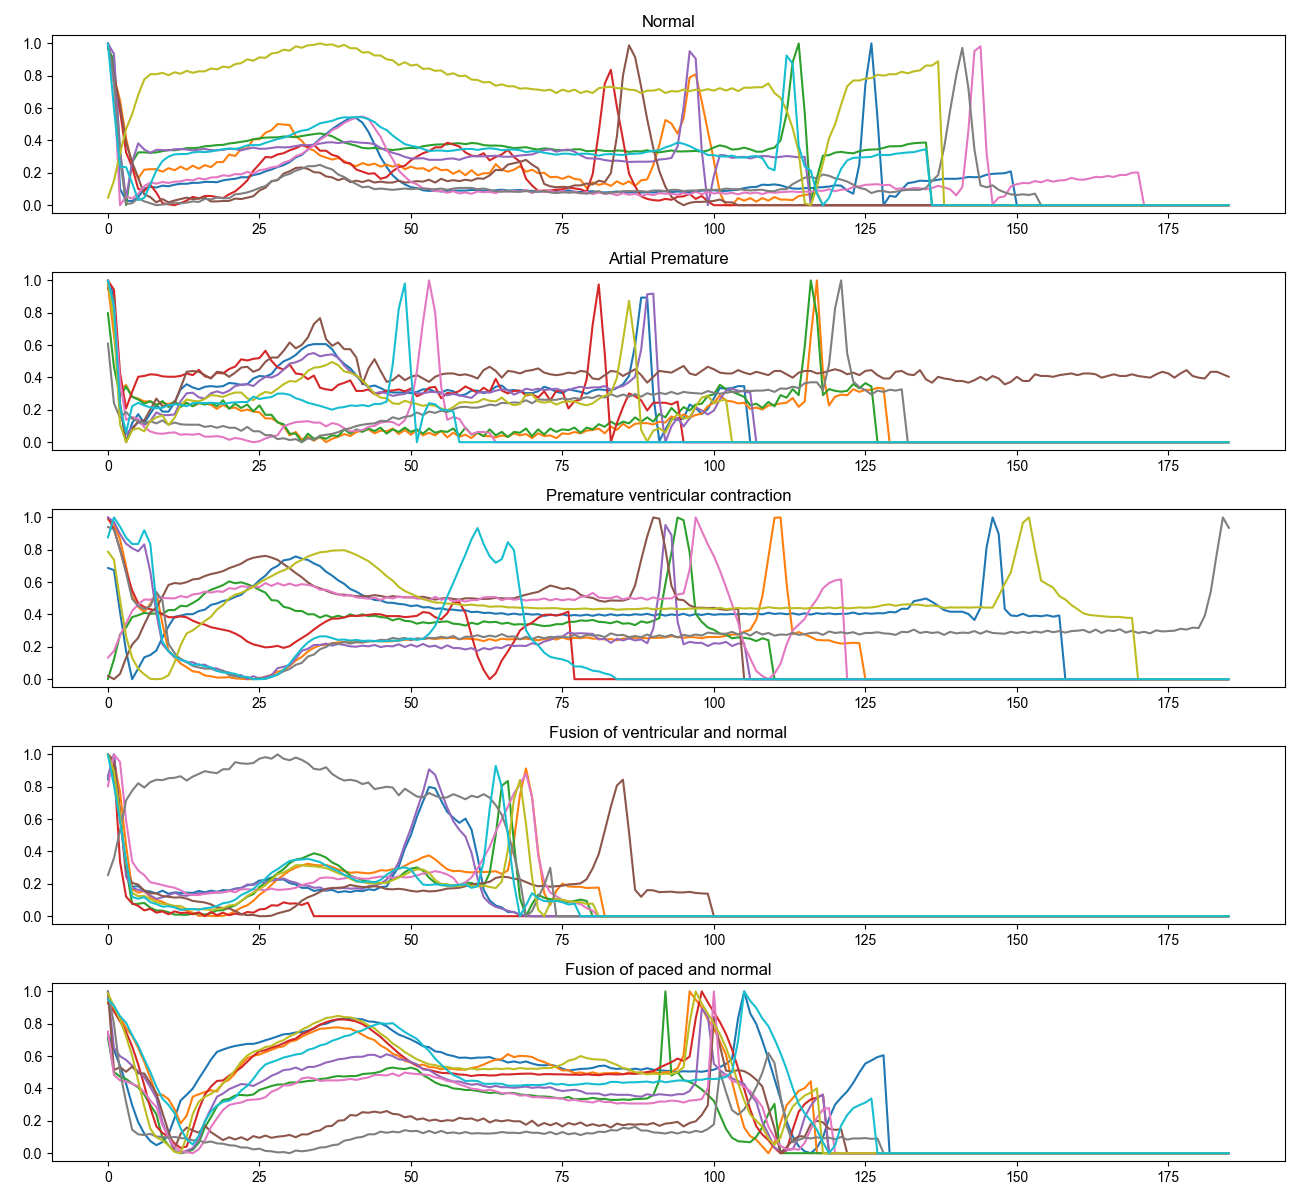
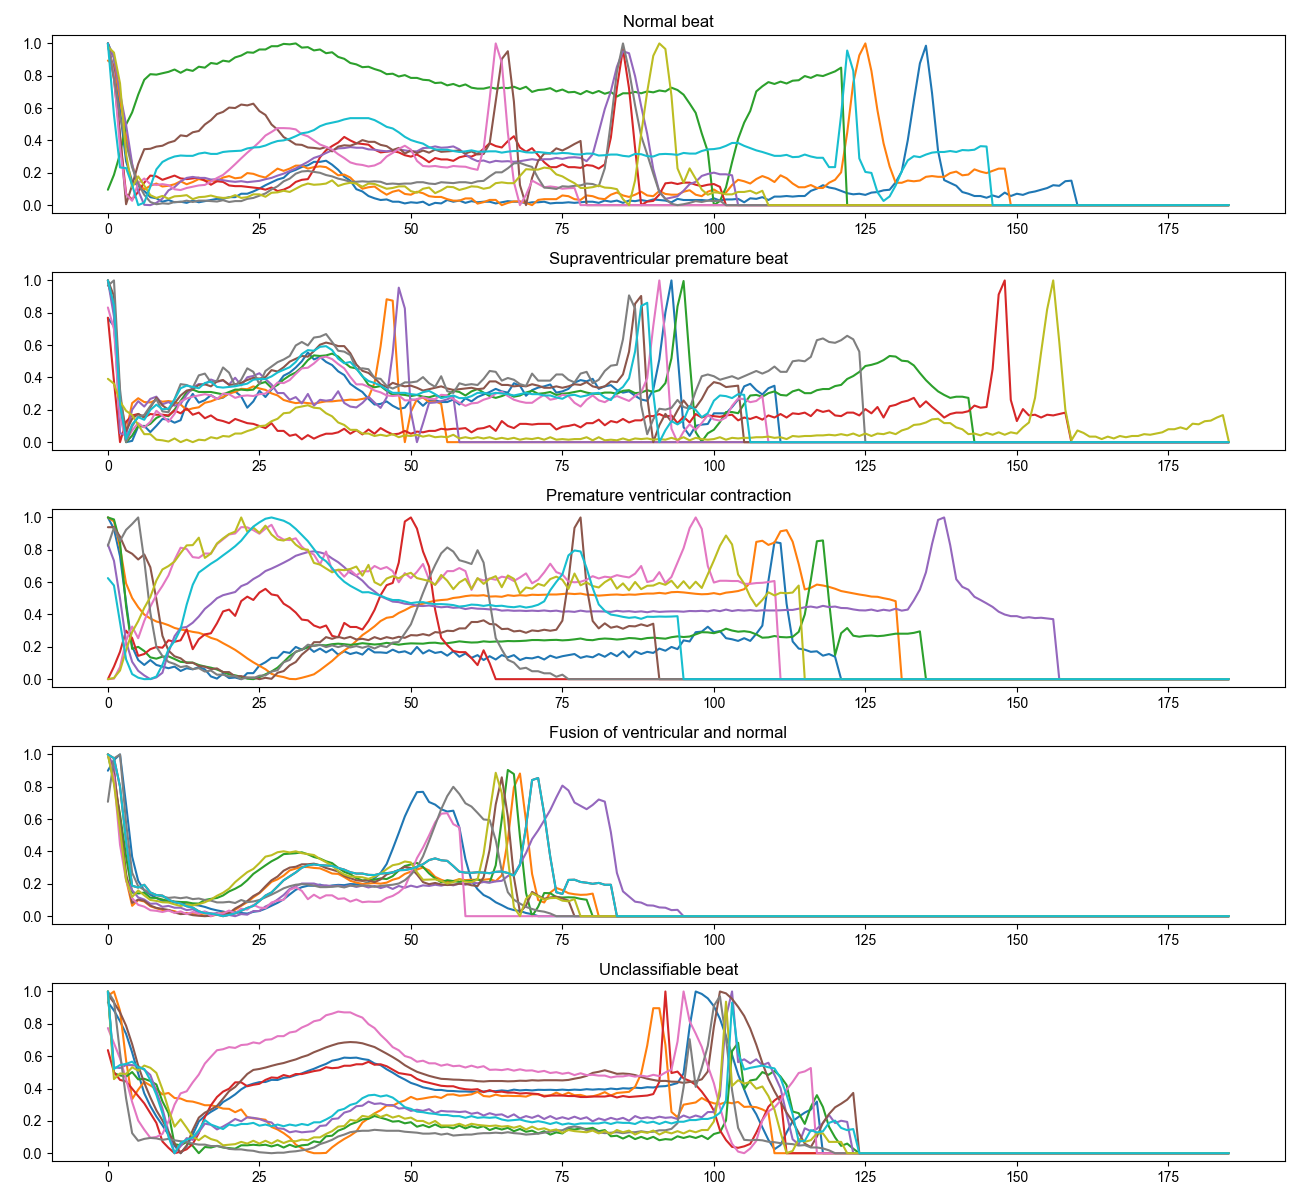
v1.0.1

diff --git a/src/visualization/visualize.py b/src/visualization/visualize.py
@@ -32,11 +32,11 @@ class EcgSignalPlotter:
         self.train_data = train_data
         self.sample_size = sample_size
         self.label_dict = {
-            0: "Normal",
-            1: "Artial Premature",
+            0: "Normal beat",
+            1: "Supraventricular premature beat",
             2: "Premature ventricular contraction",
             3: "Fusion of ventricular and normal",
-            4: "Fusion of paced and normal"
+            4: "Unclassifiable beat"
         }
         self.fig, self.axs = plt.subplots(5 ,1, figsize=(13, 12))
 
